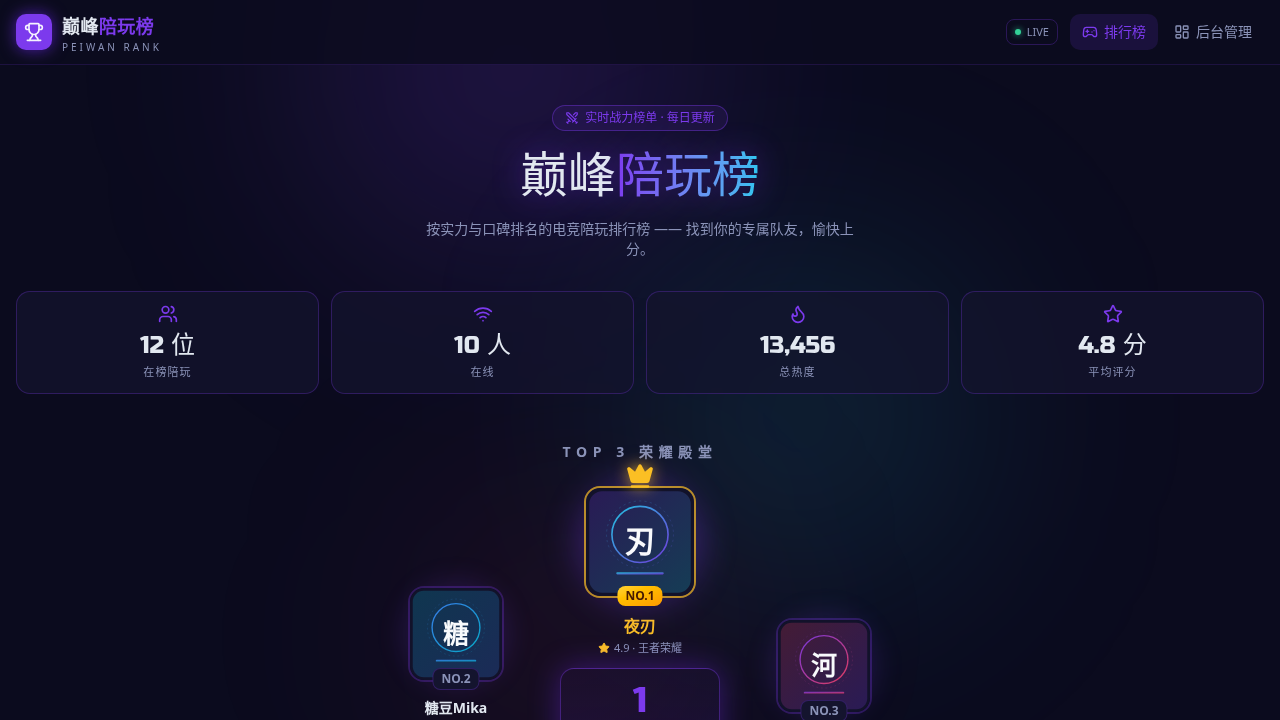
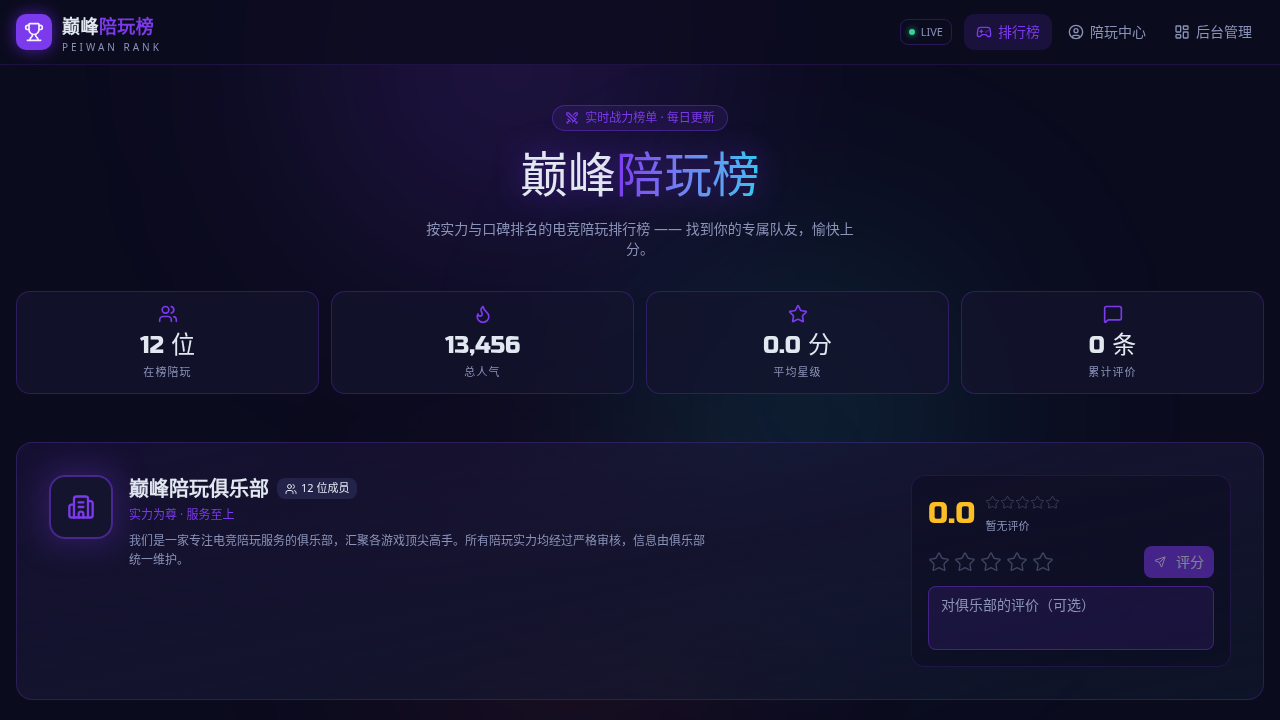
feat: 评价移至底部、俱乐部更名十一愿club、人气随订单自动+100

diff --git a/backend/src/modules/admin.ts b/backend/src/modules/admin.ts
@@ -26,6 +26,9 @@ export const adminRouter: Router = Router()
 // 密码哈希缓存（进程启动时生成一次）
 const passwordHash = bcrypt.hashSync(env.ADMIN_PASSWORD, 10)
 
+// 业务规则：每接一单增加的人气值
+const ORDERS_SCORE_UNIT = 100
+
 /**
  * POST /api/admin/login — 管理员登录（httpOnly Cookie JWT）
  */
@@ -87,6 +90,9 @@ adminRouter.get('/players', requireAdmin, async (_req: Request, res: Response) =
 adminRouter.post('/players', requireAdmin, validate(createPlayerSchema), async (req: Request, res: Response) => {
   const input = req.body as z.infer<typeof createPlayerSchema>
 
+  // 人气默认跟随订单数：每接一单 +100（管理员显式传入 score 时以传入值为准）
+  const score = input.score !== undefined && input.score > 0 ? input.score : input.orders * ORDERS_SCORE_UNIT
+
   const { rows } = await pool.query<Record<string, unknown>>(
     `INSERT INTO players
        (nickname, avatar, game, tags, description, price_per_hour, rating, orders, score, status, is_pinned)
@@ -101,7 +107,7 @@ adminRouter.post('/players', requireAdmin, validate(createPlayerSchema), async (
       input.pricePerHour,
       input.rating,
       input.orders,
-      input.score,
+      score,
       input.status,
       input.isPinned,
     ]
@@ -146,6 +152,13 @@ adminRouter.put('/players/:id', requireAdmin, validate(updatePlayerSchema), asyn
 
   if (sets.length === 0) {
     throw new AppError(400, '没有需要更新的字段')
+  }
+
+  // 业务规则：人气（score）跟随订单数自动计算，每接一单 +100
+  // 管理员显式传入 score 时以传入值为准，否则在订单数变化时按 orders * ORDERS_SCORE_UNIT 重算
+  if (input.orders !== undefined && input.score === undefined) {
+    params.push(input.orders * ORDERS_SCORE_UNIT)
+    sets.push(`score = $${params.length}`)
   }
 
   params.push(id)

diff --git a/frontend/src/components/admin/PlayerFormDialog.tsx b/frontend/src/components/admin/PlayerFormDialog.tsx
@@ -257,14 +257,20 @@ export default function PlayerFormDialog({
               />
             </div>
             <div className="space-y-1.5">
-              <Label htmlFor="pf-orders">人气值</Label>
+              <Label htmlFor="pf-orders">人气值（接单数）</Label>
               <Input
                 id="pf-orders"
                 type="number"
                 min={0}
                 value={values.orders}
-                onChange={(e) => set('orders', Number(e.target.value))}
+                onChange={(e) => {
+                  const orders = Number(e.target.value)
+                  set('orders', orders)
+                  // 每接一单 +100 人气，自动同步热度积分
+                  set('score', orders * 100)
+                }}
               />
+              <p className="text-[11px] text-muted-foreground">每接一单自动 +100 人气</p>
             </div>
             <div className="space-y-1.5">
               <Label htmlFor="pf-score">热度积分</Label>
@@ -274,6 +280,7 @@ export default function PlayerFormDialog({
                 value={values.score}
                 onChange={(e) => set('score', Number(e.target.value))}
               />
+              <p className="text-[11px] text-muted-foreground">随人气自动计算，可手动覆盖</p>
             </div>
           </div>
 

diff --git a/frontend/src/pages/PlayerDetail.tsx b/frontend/src/pages/PlayerDetail.tsx
@@ -107,7 +107,15 @@ export default function PlayerDetail() {
           </p>
         </div>
 
-        {/* 星级评价 */}
+        {/* 底部信息 */}
+        <div className="flex items-center justify-between border-t border-border/60 px-6 py-4">
+          <span className="text-xs text-muted-foreground">
+            资料更新于 {new Date(player.updatedAt).toLocaleString('zh-CN')}
+          </span>
+          <span className="text-xs text-muted-foreground">数据由后台维护</span>
+        </div>
+
+        {/* 星级评价（最底部） */}
         <RatingSection
           targetName="这位陪玩"
           summary={ratingData?.summary}
@@ -117,14 +125,6 @@ export default function PlayerDetail() {
           isSubmitting={submitRating.isPending}
           error={submitRating.isError ? getErrorMessage(submitRating.error) : undefined}
         />
-
-        {/* 底部信息 */}
-        <div className="flex items-center justify-between border-t border-border/60 px-6 py-4">
-          <span className="text-xs text-muted-foreground">
-            资料更新于 {new Date(player.updatedAt).toLocaleString('zh-CN')}
-          </span>
-          <span className="text-xs text-muted-foreground">数据由后台维护</span>
-        </div>
       </FadeIn>
     </div>
   )

diff --git a/backend/src/db/schema.ts b/backend/src/db/schema.ts
@@ -61,7 +61,7 @@ CREATE TABLE IF NOT EXISTS media (
 -- 俱乐部信息（单行）
 CREATE TABLE IF NOT EXISTS club (
   id          INTEGER PRIMARY KEY DEFAULT 1,
-  name        VARCHAR(80) NOT NULL DEFAULT '巅峰陪玩俱乐部',
+  name        VARCHAR(80) NOT NULL DEFAULT '𝓮𝓵𝓮𝓿𝓮𝓷十一愿club',
   slogan      VARCHAR(200) NOT NULL DEFAULT '',
   description TEXT        NOT NULL DEFAULT '',
   avatar      TEXT        NOT NULL DEFAULT '',
@@ -72,11 +72,15 @@ CREATE TABLE IF NOT EXISTS club (
 INSERT INTO club (id, name, slogan, description)
 VALUES (
   1,
-  '巅峰陪玩俱乐部',
+  '𝓮𝓵𝓮𝓿𝓮𝓷十一愿club',
   '实力为尊 · 服务至上',
   '我们是一家专注电竞陪玩服务的俱乐部，汇聚各游戏顶尖高手。所有陪玩实力均经过严格审核，信息由俱乐部统一维护。'
 )
 ON CONFLICT (id) DO NOTHING;
+
+-- 迁移：修正俱乐部名称（历史数据）
+UPDATE club SET name = '𝓮𝓵𝓮𝓿𝓮𝓷十一愿club', updated_at = NOW()
+WHERE id = 1 AND name = '巅峰陪玩俱乐部';
 
 -- 种子数据（仅在表为空时插入）
 INSERT INTO players (nickname, avatar, game, tags, description, price_per_hour, rating, orders, score, status, is_pinned)
